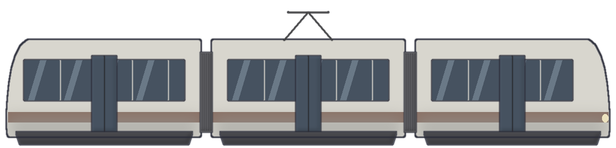
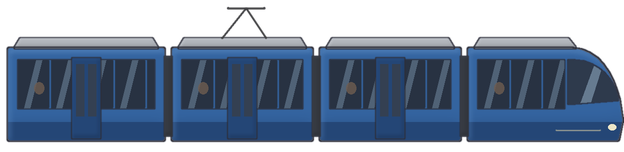
Colora di blu il tram di Padova, come quello vero (#288)
Claude-Session: https://claude.ai/code/session_01Bf1d2rFJnp9n4pFf7DSqn4

diff --git a/tools/arene/vita.py b/tools/arene/vita.py
@@ -660,41 +660,57 @@ def bus():
 
 
 def tram():
-    """Il tram di Padova: tre casse articolate bianche con la fascia spenta, i finestrini lunghi, le porte, il
-    pantografo sul tetto e i soffietti tra le casse. Ruote gommate nascoste dalle carenature."""
+    """Il tram di Padova come nella foto di Riccardo (#288): blu, a quattro casse con i soffietti, il muso tondo con il
+    grande parabrezza inclinato, la fascia dei finestrini scura incorniciata di blu, le porte, la gonna più scura
+    che nasconde le ruote gommate, il tetto grigio con le carenature e il pantografo. Blu un po' spento: sta in
+    fondo alla strada, dietro al palco."""
     L, H = 300, 52
-    q = Quadro(L + 8, H + 22)
-    x0, base = 4, H + 20
-    col, band = (216, 214, 206), (138, 112, 100)
-    segs = [(x0, x0 + 96), (x0 + 102, x0 + 198), (x0 + 204, x0 + 300)]
+    q = Quadro(L + 12, H + 24)
+    x0, base = 4, H + 22
+    blue, blue_d, blue_l = (52, 100, 160), (36, 70, 118), (92, 140, 196)
+    roof = (176, 180, 186)
+    segs = [(x0, x0 + 78), (x0 + 82, x0 + 152), (x0 + 156, x0 + 226), (x0 + 230, x0 + 304)]
     for k, (a, b) in enumerate(segs):
-        nose = 10 if k == 2 else 0
-        tail = 10 if k == 0 else 0
-        pts = [(a + tail, base - H), (b - nose, base - H)] + (bezier((b - nose, base - H), (b, base - H + 4), (b + 1, base - 14), (b, base - 4), 8) if nose else [(b, base - H), (b, base - 4)]) + [(a, base - 4)] + (list(reversed(bezier((a + tail, base - H), (a, base - H + 4), (a - 1, base - 14), (a, base - 4), 8))) if tail else [(a, base - H)])
+        nose = k == 3
+        top = base - H
+        if nose:  # il muso tondo con il parabrezza inclinato
+            pts = [(a, top + 2), (b - 22, top + 2)] + bezier((b - 22, top + 2), (b - 6, top + 3), (b + 2, base - 30), (b + 3, base - 14), 10) + [(b + 1, base - 4), (a, base - 4)]
+        else:
+            pts = [(a, top + 2), (b, top + 2), (b, base - 4), (a, base - 4)]
         m = q.smooth(q.poly(q.mask(), pts), 0.6)
-        q.fill(m, col)
-        q.fill(q.intersect(q.poly(q.mask(), [(a, base - 16), (b, base - 16), (b, base - 11), (a, base - 11)]), m), band)
-        q.fill(q.inner_shadow(m, 0, -9, 4), (150, 150, 146), 0.7)
-        wm = q.smooth(q.poly(q.mask(), [(a + 8, base - 42), (b - 8 - nose, base - 42), (b - 8 - nose, base - 22), (a + 8, base - 22)]), 0.5)
-        q.fill(wm, GLASS)
-        for j in range(int((b - a - 16) / 18)):
-            gx = a + 10 + j * 18
-            q.fill(q.intersect(q.poly(q.mask(), [(gx, base - 22), (gx + 6, base - 42), (gx + 9, base - 42), (gx + 3, base - 22)]), wm), GLASS_L, 0.45)
-            q.line([(gx + 16, base - 42), (gx + 16, base - 22)], 0.6, col)
+        q.fill(m, blue)
+        q.fill(q.intersect(q.poly(q.mask(), [(a, base - 13), (b + 4, base - 13), (b + 4, base - 4), (a, base - 4)]), m), blue_d)  # la gonna
+        q.fill(q.inner_shadow(m, 0, -8, 3.5), blue_d, 0.7)
+        q.fill(q.rim(m, -1, -2, 1.2), blue_l, 0.8)
+        # la fascia dei finestrini, scura, con i montanti blu e il riflesso
+        wx0, wx1 = a + 5, (b - 26 if nose else b - 5)
+        wm = q.smooth(q.poly(q.mask(), [(wx0, base - 44), (wx1, base - 44), (wx1, base - 20), (wx0, base - 20)]), 0.4)
+        q.fill(wm, (40, 50, 66))
+        for gx in range(int(wx0) + 3, int(wx1) - 4, 16):
+            q.fill(q.intersect(q.poly(q.mask(), [(gx, base - 20), (gx + 6, base - 44), (gx + 9, base - 44), (gx + 3, base - 20)]), wm), (120, 146, 170), 0.5)
+            q.line([(gx + 13, base - 44), (gx + 13, base - 20)], 0.8, blue)
+        q.fill(q.ellipse(q.mask(), wx0 + 8, base - 33, wx0 + 13, base - 27), (110, 92, 80), 0.8)  # un passeggero
         q.outline(wm, 0.4, INK)
-        dx = (a + b) / 2 - 6
-        _part(q, [(dx, base - 44), (dx + 12, base - 44), (dx + 12, base - 6), (dx, base - 6)], GLASS, ink=0.4)
-        q.line([(dx + 6, base - 44), (dx + 6, base - 6)], 0.4, (40, 40, 44))
-        _part(q, [(a + 4, base - 6), (b - 4, base - 6), (b - 6, base), (a + 6, base)], (70, 70, 74), ink=0.4)  # carenatura
+        if nose:
+            ws = q.smooth(q.poly(q.mask(), [(b - 24, base - 44)] + bezier((b - 21, base - 44), (b - 8, base - 43), (b - 1, base - 34), (b + 1, base - 24), 8) + [(b - 24, base - 22)]), 0.4)
+            q.fill(ws, (46, 58, 76))
+            q.fill(q.intersect(q.poly(q.mask(), [(b - 18, base - 22), (b - 10, base - 44), (b - 6, base - 44), (b - 13, base - 22)]), ws), (140, 166, 190), 0.6)
+            q.outline(ws, 0.4, INK)
+            q.fill(q.ellipse(q.mask(), b - 4, base - 12, b, base - 9), (236, 230, 200))  # fanale
+            q.line([(b - 30, base - 9), (b - 8, base - 9)], 0.6, (210, 200, 160), 0.8)  # la striscia gialla del muso
+        else:
+            dx = (a + b) / 2 - 7  # la porta, con i vetri
+            _part(q, [(dx, base - 45), (dx + 14, base - 45), (dx + 14, base - 5), (dx, base - 5)], blue_d, ink=0.4)
+            for ddx in (dx + 2, dx + 8):
+                q.fill(q.poly(q.mask(), [(ddx, base - 42), (ddx + 4, base - 42), (ddx + 4, base - 16), (ddx, base - 16)]), (52, 64, 82))
+        # il tetto grigio con la carenatura
+        _part(q, [(a + 3, top + 2), (b - (20 if nose else 3), top + 2), (b - (24 if nose else 6), top - 3), (a + 6, top - 3)], roof, ink=0.4)
         q.outline(m, 0.7, INK)
-    for a in (x0 + 96, x0 + 198):  # i soffietti
-        _part(q, [(a, base - H + 6), (a + 6, base - H + 6), (a + 6, base - 6), (a, base - 6)], (90, 90, 94), ink=0.3)
-        for j in range(5):
-            q.line([(a + 1 + j * 1.1, base - H + 7), (a + 1 + j * 1.1, base - 7)], 0.2, (60, 60, 64), 0.8)
-    pc = x0 + 150  # pantografo sul tetto della cassa centrale
-    q.line([(pc - 12, base - H), (pc, base - H - 14), (pc + 12, base - H)], 0.8, (60, 60, 62))
-    q.line([(pc - 10, base - H - 14), (pc + 10, base - H - 14)], 1.0, (60, 60, 62))
-    q.fill(q.ellipse(q.mask(), x0 + 297, base - 15, x0 + 300, base - 11), (236, 226, 190))
+    for a in (x0 + 78, x0 + 152, x0 + 226):  # soffietti scuri
+        _part(q, [(a, base - H + 6), (a + 4, base - H + 6), (a + 4, base - 6), (a, base - 6)], (54, 58, 66), ink=0.3)
+    pc = x0 + 117  # il pantografo
+    q.line([(pc - 10, base - H - 3), (pc + 2, base - H - 18), (pc + 12, base - H - 3)], 0.8, (60, 60, 62))
+    q.line([(pc - 7, base - H - 18), (pc + 11, base - H - 18)], 1.0, (60, 60, 62))
     return q.result()
 
 
